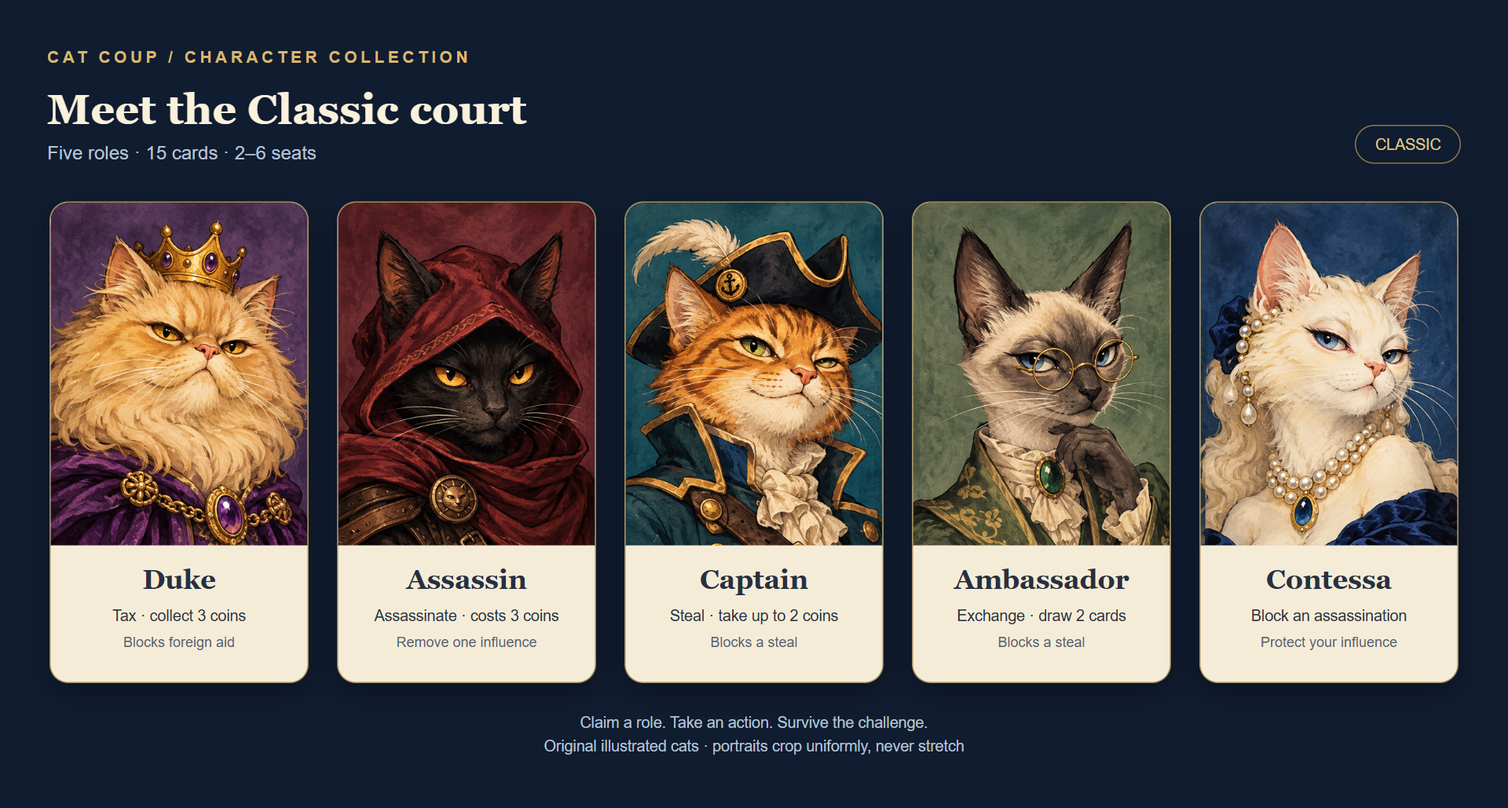
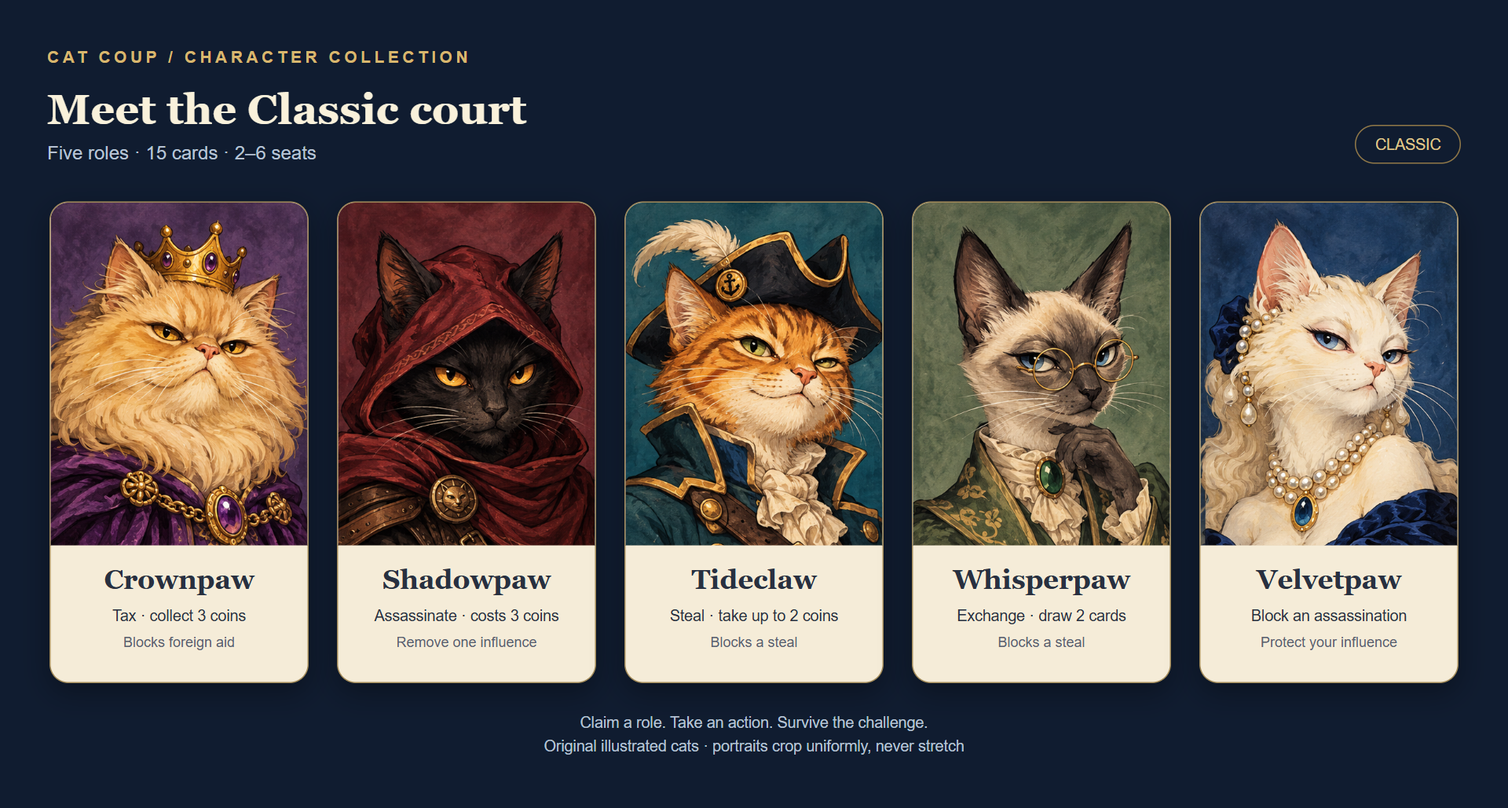
feat: give Classic characters original cat display names

diff --git a/src/main.tsx b/src/main.tsx
@@ -6,7 +6,7 @@ import '@fontsource/geist/400.css';
 import '@fontsource/geist/600.css';
 import '@fontsource/geist/800.css';
 import type { Action, Role, Command, View, Card, Mode } from '../server/game';
-import {descriptions, modeRoles, blockRoles, ACTIONS} from '../server/roles';
+import {descriptions, modeRoles, blockRoles, ACTIONS, ROLE_NAMES} from '../server/roles';
 import {Portrait} from './Portrait';
 import './spacing.css';
 import './style.css';
@@ -20,7 +20,7 @@ import './card-layout.css';
 const roles: Role[] = ['Duke','Assassin','Captain','Ambassador','Contessa'];
 const actions: {id:Action; label:string; detail:string; role?:Role; cost:number; targeted?:boolean}[] = [
   {id:'income',label:'Income',detail:'Take 1 coin',cost:0},
-  {id:'aid',label:'Foreign aid',detail:'Take 2 · Duke can block',cost:0},
+  {id:'aid',label:'Foreign aid',detail:'Take 2 · Crownpaw can block',cost:0},
   {id:'coup',label:'Coup',detail:'Remove 1 influence · cannot block',cost:7,targeted:true},
   {id:'tax',label:'Tax',detail:'Take 3 coins',role:'Duke',cost:0},
   {id:'assassinate',label:'Assassinate',detail:'Remove 1 influence',role:'Assassin',cost:3,targeted:true},
@@ -37,7 +37,7 @@ function saved():Session|null { try { return JSON.parse(sessionStorage.getItem('
 function remember(s:Session|null) { try { if(s) sessionStorage.setItem('cat-coup-session',JSON.stringify(s)); else sessionStorage.removeItem('cat-coup-session'); } catch { /* The active connection still works without storage. */ } }
 function CatMark() { return <svg viewBox="0 0 48 48" aria-hidden="true"><path d="M9 22 8 7l13 9h6L40 7l-1 15c8 21-38 21-30 0Z" fill="none" stroke="currentColor" strokeWidth="2.5" strokeLinejoin="round"/><path d="m18 26 2 1m8 0 2-1m-8 6 2 2 2-2" stroke="currentColor" strokeWidth="2.5" strokeLinecap="round"/></svg>; }
 function Influence({card,hidden=false,select,onSelect}:{card:{role?:Role;id?:string;revealed:boolean};hidden?:boolean;select?:boolean;onSelect?:()=>void}) {
-  const content= <><div className="card-art">{card.role && !hidden ? <Portrait role={card.role}/> : <div className="card-back"><CatMark/><span>CAT COUP</span></div>}</div><div className="card-caption"><strong>{card.role && !hidden ? card.role : 'Secret influence'}</strong><small>{card.revealed?'Revealed · out of play':select?'Selected to keep':card.role && !hidden ? descriptions[card.role]:'Only its owner knows.'}</small></div></>;
+  const content= <><div className="card-art">{card.role && !hidden ? <Portrait role={card.role}/> : <div className="card-back"><CatMark/><span>CAT COUP</span></div>}</div><div className="card-caption"><strong>{card.role && !hidden ? ROLE_NAMES[card.role] : 'Secret influence'}</strong><small>{card.revealed?'Revealed · out of play':select?'Selected to keep':card.role && !hidden ? descriptions[card.role]:'Only its owner knows.'}</small></div></>;
   return onSelect ? <button className={`influence ${card.revealed?'revealed':''} ${select?'selected':''}`} onClick={onSelect} aria-pressed={select}>{content}</button> : <div className={`influence ${card.revealed?'revealed':''}`}>{content}</div>;
 }
 function App() {
@@ -85,25 +85,25 @@ function App() {
     {room && !game && room.host===room.me && <div className="notice"><span>Practice with test bots. Bots are ready automatically and use their own private hand.</span><div><button className="secondary" disabled={disabled||room.draining||room.seats.length>=6} onClick={()=>request('add-bot')}>Add test bot</button>{room.seats.some(s=>s.bot)&&<button className="quiet" disabled={disabled} onClick={()=>request('remove-bot',{id:room.seats.filter(s=>s.bot).at(-1)!.id})}>Remove a bot</button>}</div></div>}
     {room&&room.host===room.me&&<div className="host-room-controls"><button className="quiet" disabled={busy||!connected} onClick={()=>closeRoom.current?.showModal()}>{game&&game.phase!=='over'?'End game & close room':'Close room'}</button></div>}
     {room && <VoiceChat key={room.code+room.me} socket={socket} room={room}/>}
-    {room&&!game&&<section className="mode-panel" aria-label="Game mode"><fieldset disabled={disabled||room.draining||room.host!==room.me}><legend>Choose your court</legend><div className="mode-options">{(['classic','vintage'] as const).map(mode=><label className={`mode-option ${room.mode===mode?'selected':''}`} key={mode}><input type="radio" name="mode" value={mode} checked={room.mode===mode} onChange={()=>request('set-mode',{mode})}/><span><strong>{mode==='classic'?'Classic':'Vintage'} <small>{mode==='classic'?'5 roles · 15 cards':'8 roles · 24 cards'}</small></strong><span>{mode==='classic'?'The original five. Pure bluffing.':'A larger court: Merchant, Bandit and Guardian.'}</span></span></label>)}</div></fieldset><p>{room.host===room.me?'Changing mode resets human players’ ready status.':'The host chooses the mode before dealing.'} Vintage is a Cat Coup house variant.</p>{room.mode==='vintage'&&<div className="vintage-preview">{(['Merchant','Bandit','Guardian'] as const).map(role=><article key={role}><Portrait role={role}/><div><h3>{role}</h3><p>{descriptions[role]}</p></div></article>)}</div>}</section>}
+    {room&&!game&&<section className="mode-panel" aria-label="Game mode"><fieldset disabled={disabled||room.draining||room.host!==room.me}><legend>Choose your court</legend><div className="mode-options">{(['classic','vintage'] as const).map(mode=><label className={`mode-option ${room.mode===mode?'selected':''}`} key={mode}><input type="radio" name="mode" value={mode} checked={room.mode===mode} onChange={()=>request('set-mode',{mode})}/><span><strong>{mode==='classic'?'Classic':'Vintage'} <small>{mode==='classic'?'5 roles · 15 cards':'8 roles · 24 cards'}</small></strong><span>{mode==='classic'?'The original five. Pure bluffing.':'A larger court: Merchant, Bandit and Guardian.'}</span></span></label>)}</div></fieldset><p>{room.host===room.me?'Changing mode resets human players’ ready status.':'The host chooses the mode before dealing.'} Vintage is a Cat Coup house variant.</p>{room.mode==='vintage'&&<div className="vintage-preview">{(['Merchant','Bandit','Guardian'] as const).map(role=><article key={role}><Portrait role={role}/><div><h3>{ROLE_NAMES[role]}</h3><p>{descriptions[role]}</p></div></article>)}</div>}</section>}
     {room?.draining && <div role="status" className="notice">An update is pending. Current games can finish; new games are paused. Lobby rooms will reset when the update begins.</div>}
     {!room ? <main className="welcome">
-      <section className="intro"><h1>Nine lives.<br/><span>Two secrets.</span></h1><p>A court of cunning cats. Bluff, steal, and outwit your friends. Only one gets the crown.</p><div className="hero-fan" aria-label="The five cat characters">{roles.map((role,i)=><div className={`fan-card fan-${i}`} key={role}><Influence card={{role,revealed:false}}/></div>)}</div><ul className="cast-legend" aria-label="Classic role names">{roles.map(role=><li key={role}>{role}</li>)}</ul><p className="table-note">2–6 friends <span>·</span> Private rooms <span>·</span> A very suspicious amount of purring</p></section>
+      <section className="intro"><h1>Nine lives.<br/><span>Two secrets.</span></h1><p>A court of cunning cats. Bluff, steal, and outwit your friends. Only one gets the crown.</p><div className="hero-fan" aria-label="The five cat characters">{roles.map((role,i)=><div className={`fan-card fan-${i}`} key={role}><Influence card={{role,revealed:false}}/></div>)}</div><ul className="cast-legend" aria-label="Classic role names">{roles.map(role=><li key={role}>{ROLE_NAMES[role]}</li>)}</ul><p className="table-note">2–6 friends <span>·</span> Private rooms <span>·</span> A very suspicious amount of purring</p></section>
       <section className="entry"><div className="entry-top"><span className="line-art"><CatMark/></span><h2>Pull up a chair.</h2><p>Bring your friends. Leave your poker face on.</p></div><form onSubmit={(e:FormEvent)=>{e.preventDefault();enter(true);}}><label htmlFor="name">Your nickname</label><input id="name" autoComplete="nickname" maxLength={24} value={name} onChange={e=>setName(e.target.value)} placeholder="e.g. Sir Pounce" required/><button className="primary create" type="button" disabled={!connected||busy||!name.trim()} onClick={()=>enter(false)}>{busy?'Taking your seat…':'Create a room'}<span aria-hidden="true">→</span></button><div className="or"><span/>or join your friends<span/></div><label htmlFor="code">Room code</label><div className="join-row"><input id="code" value={code} onChange={e=>setCode(e.target.value.toUpperCase().replace(/[^A-Z0-9]/g,''))} placeholder="ABC123" maxLength={6} minLength={6} autoComplete="off" required/><button className="secondary" disabled={!connected||busy||code.length!==6||!name.trim()}>Join room</button></div></form><p className="entry-note">No account needed. Your hand stays private.</p></section>
       <section className="rule-teaser"><div><h2>Appearances are deceiving.</h2><p>You may claim any character. But if another cat calls your bluff, you’ll need to prove it.</p></div><button className="quiet" onClick={()=>help.current?.showModal()}>Meet the characters <span aria-hidden="true">↗</span></button></section>
     </main> : !game ? <main className="lobby"><div className="room-heading"><div><h1>Your table is waiting.</h1><p>Share the room code, then have everyone ready up.</p></div><button className="room-code" onClick={share} title="Copy invite link"><small>ROOM CODE</small><strong>{room.code}</strong><span>Copy invite link</span></button></div><div className="seats">{Array.from({length:6},(_,i)=>{const s=room.seats[i];return <article className={`seat ${s?'occupied':''}`} key={i}>{s?<><Portrait role={roles[i%5]}/><h2>{s.name}{s.id===room.me?' (you)':''}</h2><p>{s.id===room.host?'Host · ':''}{!s.connected?'Disconnected':s.ready?'Ready to play':'Getting comfortable'}</p></>:<><div className="empty-seat"><CatMark/></div><h2>Open seat</h2><p>Invite another cat</p></>}</article>;})}</div><div className="lobby-actions"><button className="primary" disabled={disabled} onClick={()=>request('ready')}>{room.seats.find(s=>s.id===room.me)?.ready?'Not ready':'I’m ready'}</button>{room.me===room.host&&<button className="secondary" disabled={disabled||room.seats.length<2||!room.seats.every(s=>s.ready&&s.connected)} onClick={()=>request('start')}>Deal the cards</button>}<button className="quiet" disabled={busy} onClick={()=>request('leave',{},()=>{setRoom(null);remember(null);})}>Leave room</button></div><p className="fine">The host deals when all players are ready. Keep this browser tab to reconnect to your seat.</p></main> : <main className="game">
       <div className="game-top"><span>{game.mode==='vintage'?'Vintage · 8 roles':'Classic · 5 roles'} · Room <button className="inline-code" onClick={share}>{room.code}</button></span><span>{game.deckCount} cards in court · {game.treasury} coins in treasury</span></div>
       <RoundTable game={game} me={room.me} seats={room.seats}/>
-      <section className="decision" aria-labelledby="decision-title"><div className="decision-copy" aria-live="polite"><h1 id="decision-title">{title}</h1>{game.pending&&<p><strong>{displayName(game.pending.actor)}</strong> declared <strong>{actions.find(a=>a.id===game.pending!.action)?.label}</strong>{game.pending.target?` against ${displayName(game.pending.target)}`:''}.{game.pending.blocker&&` ${displayName(game.pending.blocker)} claims ${game.pending.blockRole} to block.`}</p>}{yourTurn&&<p>{(me?.coins||0)>=10?'You have 10 or more coins. You must launch a coup.':'Take an action below. Character actions can be bluffs.'}</p>}{losing&&<p>This card will be public and can no longer protect you.</p>}{!active&&game.phase!=='over'&&<p>You’re out, but you can watch the rest of the game.</p>}</div>
-      {responding&&<div className="responses"><button className="secondary" disabled={disabled} onClick={()=>move({type:'pass'})}>{game.phase==='block'?'Allow action':game.phase==='blockClaim'?'Accept block':'Accept claim'}</button>{['claim','blockClaim'].includes(game.phase)&&<button className="danger" disabled={disabled} onClick={()=>move({type:'challenge'})}>Challenge claim</button>}{game.phase==='block'&&blockRoles(game.pending!.action,game.mode).map(role=><button className="primary" key={role} disabled={disabled} onClick={()=>move({type:'block',role:role as Role})}>Block as {role}</button>)}</div>}
+      <section className="decision" aria-labelledby="decision-title"><div className="decision-copy" aria-live="polite"><h1 id="decision-title">{title}</h1>{game.pending&&<p><strong>{displayName(game.pending.actor)}</strong> declared <strong>{actions.find(a=>a.id===game.pending!.action)?.label}</strong>{game.pending.target?` against ${displayName(game.pending.target)}`:''}.{game.pending.blocker&&` ${displayName(game.pending.blocker)} claims ${game.pending.blockRole ? ROLE_NAMES[game.pending.blockRole] : 'a role'} to block.`}</p>}{yourTurn&&<p>{(me?.coins||0)>=10?'You have 10 or more coins. You must launch a coup.':'Take an action below. Character actions can be bluffs.'}</p>}{losing&&<p>This card will be public and can no longer protect you.</p>}{!active&&game.phase!=='over'&&<p>You’re out, but you can watch the rest of the game.</p>}</div>
+      {responding&&<div className="responses"><button className="secondary" disabled={disabled} onClick={()=>move({type:'pass'})}>{game.phase==='block'?'Allow action':game.phase==='blockClaim'?'Accept block':'Accept claim'}</button>{['claim','blockClaim'].includes(game.phase)&&<button className="danger" disabled={disabled} onClick={()=>move({type:'challenge'})}>Challenge claim</button>}{game.phase==='block'&&blockRoles(game.pending!.action,game.mode).map(role=><button className="primary" key={role} disabled={disabled} onClick={()=>move({type:'block',role:role as Role})}>Block as {ROLE_NAMES[role]}</button>)}</div>}
       {game.phase==='over'&&<div className="responses">{room.host===room.me?<button className="primary" disabled={disabled} onClick={()=>request('rematch')}>Play again</button>:<p>Waiting for the host to open a rematch.</p>}<button className="quiet" onClick={()=>request('leave',{},()=>{setRoom(null);remember(null);})}>Leave table</button></div>}</section>
       <div className="play-area"><section className="your-hand"><div className="section-heading"><h2>Your influence</h2><span className="coins">{me?.coins} <small>coins</small></span><button className="quiet" onClick={()=>setHide(!hide)}>{hide?'Show cards':'Hide cards'}</button></div><div className="hand-cards">{(exchange?[...me!.cards.filter(c=>!c.revealed),...game.exchange!]:me!.cards).map((c,i)=><Influence key={'id' in c?String(c.id):i} card={c} hidden={hide&&!c.revealed} select={exchange&&chosen.includes((c as Card).id)} onSelect={disabled?undefined:losing&&!c.revealed?()=>move({type:'lose',card:(c as Card).id}):exchange?()=>setChosen(prev=>prev.includes((c as Card).id)?prev.filter(id=>id!==(c as Card).id):prev.length<keep?[...prev,(c as Card).id]:prev):undefined}/>)}</div>{exchange&&<button className="primary" disabled={disabled||chosen.length!==keep} onClick={()=>move({type:'exchange',cards:chosen})}>Keep {chosen.length} of {keep} selected cards</button>}</section>
-      <section className="action-tray"><h2>{yourTurn?'Choose your action':'Actions at a glance'}</h2>{yourTurn&&<label className="target-label">Target for coup, assassination or theft<select value={target} onChange={e=>setTarget(e.target.value)}><option value="">Choose an opponent</option>{game.players.filter(p=>p.id!==room.me&&p.cards.some(c=>!c.revealed)).map(p=><option value={p.id} key={p.id}>{p.name} · {p.coins} coins</option>)}</select></label>}<div className="actions">{actions.filter(a=>!ACTIONS[a.id].vintage||game.mode==='vintage').map(a=><button key={a.id} className={`action ${a.role?'role-action':''}`} disabled={disabled||!yourTurn||(me?.coins||0)<a.cost||((me?.coins||0)>=10&&a.id!=='coup')||!!(a.targeted&&!target)} onClick={()=>move({type:'action',action:a.id,target:a.targeted?target:undefined})}><span><strong>{a.label}</strong><small>{a.detail}</small></span><span className="action-meta">{a.role&&<small>{a.role}</small>}<b>{a.cost?`${a.cost} coins`:'Free'}</b></span></button>)}</div></section></div>
+      <section className="action-tray"><h2>{yourTurn?'Choose your action':'Actions at a glance'}</h2>{yourTurn&&<label className="target-label">Target for coup, assassination or theft<select value={target} onChange={e=>setTarget(e.target.value)}><option value="">Choose an opponent</option>{game.players.filter(p=>p.id!==room.me&&p.cards.some(c=>!c.revealed)).map(p=><option value={p.id} key={p.id}>{p.name} · {p.coins} coins</option>)}</select></label>}<div className="actions">{actions.filter(a=>!ACTIONS[a.id].vintage||game.mode==='vintage').map(a=><button key={a.id} className={`action ${a.role?'role-action':''}`} disabled={disabled||!yourTurn||(me?.coins||0)<a.cost||((me?.coins||0)>=10&&a.id!=='coup')||!!(a.targeted&&!target)} onClick={()=>move({type:'action',action:a.id,target:a.targeted?target:undefined})}><span><strong>{a.label}</strong><small>{a.detail}</small></span><span className="action-meta">{a.role&&<small>{ROLE_NAMES[a.role]}</small>}<b>{a.cost?`${a.cost} coins`:'Free'}</b></span></button>)}</div></section></div>
       <details className="history" open><summary>Table history</summary><ol>{[...game.log].reverse().map((entry,i)=><li key={`${game.log.length-i}-${entry}`}>{entry}</li>)}</ol></details>
     </main>}
     <dialog ref={closeRoom} className="rules close-room-dialog" aria-labelledby="close-room-title"><h2 id="close-room-title">Close this room for everyone?</h2><p>This ends any active game and returns every player to the home screen. Game progress is discarded and the room code will no longer work.</p><div className="responses"><button className="quiet" autoFocus onClick={()=>closeRoom.current?.close()}>Cancel</button><button className="danger" disabled={busy||!connected} onClick={()=>request('close-room',{confirm:true})}>End game and close room</button></div></dialog>
     <footer><span>CAT COUP · A little charm. A lot of bluff.</span><a href="https://www.qugs.org/rules/r131357.pdf" target="_blank" rel="noreferrer">Based on Coup by Rikki Tahta · Rules ↗</a></footer>
-    <dialog ref={help} className="rules" aria-labelledby="rules-title"><div className="section-heading"><h2 id="rules-title">Welcome to the cat court.</h2><button className="quiet" onClick={()=>help.current?.close()}>Close</button></div><p>Keep at least one hidden influence. If both are revealed, you’re out. The last cat with influence wins.</p><p><strong>{room?.mode==='vintage'?'Vintage: 8 roles, 24 cards. Cat Coup house variant.':'Classic: 5 roles, 15 cards.'}</strong> Three copies of each role; two influences per player. The host selects the mode in the lobby.</p><div className="role-guide">{modeRoles(room?.mode||'classic').map(role=><article key={role}><Portrait role={role}/><div><h3>{role}</h3><p>{descriptions[role]}</p></div></article>)}</div><h3>Vintage house rules</h3><p>Vintage keeps the Classic rules and adds Merchant (Market: take 2), Bandit (Plunder: pay 1, steal up to 3) and Guardian (block Steal or Plunder). Only the target may block theft. Plunder can only be blocked by Guardian. Role claims and blocks can be challenged, and a caught action bluff refunds its fee. More roles change the odds; this house variant has not been competitively balanced.</p><h3>A claim is not a confession.</h3><p>You can claim a character you don’t hold. Other players can accept or challenge. If proved, the challenger loses influence and the proven card is replaced. If caught bluffing, the claimant loses influence.</p><h3>Coins, coups and counterclaims</h3><p>Income is safe. Foreign aid can be blocked by Duke. A coup costs 7 and cannot be blocked; at 10 coins it is mandatory. Blocks can be bluffs too. Assassination costs 3 even when blocked; a caught action bluff refunds its fee.</p><p className="fine">Rooms live in server memory. A disconnected active player pauses the table until they return. Use the same tab to restore a seat; a server restart ends rooms. This is an independent fan project with original cat artwork.</p><a href="https://www.qugs.org/rules/r131357.pdf" target="_blank" rel="noreferrer">Read the full original rules ↗</a></dialog>
+    <dialog ref={help} className="rules" aria-labelledby="rules-title"><div className="section-heading"><h2 id="rules-title">Welcome to the cat court.</h2><button className="quiet" onClick={()=>help.current?.close()}>Close</button></div><p>Keep at least one hidden influence. If both are revealed, you’re out. The last cat with influence wins.</p><p><strong>{room?.mode==='vintage'?'Vintage: 8 roles, 24 cards. Cat Coup house variant.':'Classic: 5 roles, 15 cards.'}</strong> Three copies of each role; two influences per player. The host selects the mode in the lobby.</p><div className="role-guide">{modeRoles(room?.mode||'classic').map(role=><article key={role}><Portrait role={role}/><div><h3>{ROLE_NAMES[role]}</h3><p>{descriptions[role]}</p></div></article>)}</div><h3>Vintage house rules</h3><p>Vintage keeps the Classic rules and adds Merchant (Market: take 2), Bandit (Plunder: pay 1, steal up to 3) and Guardian (block Steal or Plunder). Only the target may block theft. Plunder can only be blocked by Guardian. Role claims and blocks can be challenged, and a caught action bluff refunds its fee. More roles change the odds; this house variant has not been competitively balanced.</p><h3>A claim is not a confession.</h3><p>You can claim a character you don’t hold. Other players can accept or challenge. If proved, the challenger loses influence and the proven card is replaced. If caught bluffing, the claimant loses influence.</p><h3>Coins, coups and counterclaims</h3><p>Income is safe. Foreign aid can be blocked by Crownpaw. A coup costs 7 and cannot be blocked; at 10 coins it is mandatory. Blocks can be bluffs too. Assassination costs 3 even when blocked; a caught action bluff refunds its fee.</p><p className="fine">Rooms live in server memory. A disconnected active player pauses the table until they return. Use the same tab to restore a seat; a server restart ends rooms. This is an independent fan project with original cat artwork.</p><a href="https://www.qugs.org/rules/r131357.pdf" target="_blank" rel="noreferrer">Read the full original rules ↗</a></dialog>
   </div>;
 }
 createRoot(document.getElementById('root')!).render(<App/>);

diff --git a/server/game.ts b/server/game.ts
@@ -1,6 +1,6 @@
 import { randomInt, randomUUID } from 'node:crypto';
 
-import {ACTIONS, modeRoles, blockRoles, type Role, type Mode, type Action} from './roles.js';
+import {ACTIONS, ROLE_NAMES, modeRoles, blockRoles, type Role, type Mode, type Action} from './roles.js';
 export {ROLES, ACTIONS, blockRoles} from './roles.js';
 export type {Role, Action, Mode} from './roles.js';
 export interface Card { id: string; role: Role; revealed: boolean }
@@ -88,7 +88,7 @@ export function command(previous: Game, id: string, cmd: Command): Game {
     if (action.targeted && (!cmd.target || cmd.target === id || !living(player(g, cmd.target)))) throw Error('Choose an active opponent.');
     me.coins -= action.cost; g.treasury += action.cost;
     g.pending = { actor: id, action: cmd.action, target: action.targeted ? cmd.target : undefined }; g.passed = [];
-    note(g, `${me.name} declares ${cmd.action}${action.role ? ` (${action.role})` : ''}${action.targeted ? ` against ${player(g, cmd.target!).name}` : ''}.`);
+    note(g, `${me.name} declares ${cmd.action}${action.role ? ` (${ROLE_NAMES[action.role]})` : ''}${action.targeted ? ` against ${player(g, cmd.target!).name}` : ''}.`);
     if (action.role) g.phase = 'claim'; else if (cmd.action === 'aid') blockStage(g); else resolve(g);
   } else if (cmd.type === 'pass') {
     if (!responders(g).includes(id)) throw Error('No response is needed from you.');
@@ -102,7 +102,7 @@ export function command(previous: Game, id: string, cmd: Command): Game {
     const p = g.pending;
     if (g.phase !== 'block' || !p || !responders(g).includes(id) || !blockRoles(p.action,g.mode).includes(cmd.role)) throw Error('That block is unavailable.');
     p.blocker = id; p.blockRole = cmd.role; g.phase = 'blockClaim'; g.passed = [];
-    note(g, `${me.name} blocks with a claimed ${cmd.role}.`);
+    note(g, `${me.name} blocks with a claimed ${ROLE_NAMES[cmd.role]}.`);
   } else if (cmd.type === 'challenge') {
     if (!['claim', 'blockClaim'].includes(g.phase) || !responders(g).includes(id)) throw Error('That claim cannot be challenged now.');
     const p = g.pending!, isBlock = g.phase === 'blockClaim';
@@ -110,11 +110,11 @@ export function command(previous: Game, id: string, cmd: Command): Game {
     const role = isBlock ? p.blockRole! : ACTIONS[p.action].role!;
     const card = claimant.cards.find(c => !c.revealed && c.role === role);
     if (card) {
-      note(g, `${me.name} challenges. ${claimant.name} proves ${role} and draws a replacement. ${me.name} loses influence.`);
+      note(g, `${me.name} challenges. ${claimant.name} proves ${ROLE_NAMES[role]} and draws a replacement. ${me.name} loses influence.`);
       const index = claimant.cards.indexOf(card); g.deck.push(card); shuffle(g.deck); claimant.cards[index] = g.deck.pop()!;
       lose(g, me.id, isBlock ? 'finish' : 'block');
     } else {
-      note(g, `${me.name} catches ${claimant.name} bluffing ${role}.`);
+      note(g, `${me.name} catches ${claimant.name} bluffing ${ROLE_NAMES[role]}.`);
       if (!isBlock) { const cost = ACTIONS[p.action].cost; claimant.coins += cost; g.treasury -= cost; }
       lose(g, claimant.id, isBlock ? 'resolve' : 'finish');
     }
@@ -122,7 +122,7 @@ export function command(previous: Game, id: string, cmd: Command): Game {
     if (g.phase !== 'loss' || g.loss?.player !== id) throw Error('You do not need to reveal a card.');
     const card = me.cards.find(c => c.id === cmd.card && !c.revealed);
     if (!card) throw Error('Choose one of your hidden cards.');
-    card.revealed = true; note(g, `${me.name} reveals ${card.role}.`);
+    card.revealed = true; note(g, `${me.name} reveals ${ROLE_NAMES[card.role]}.`);
     if (!living(me)) { g.treasury += me.coins; me.coins = 0; note(g, `${me.name} is out of the court.`); }
     proceed(g, g.loss.next);
   } else if (cmd.type === 'exchange') {

diff --git a/src/RoundTable.tsx b/src/RoundTable.tsx
@@ -1,5 +1,5 @@
 import {Portrait} from './Portrait';
-import {ROLES} from '../server/roles';
+import {ROLES, ROLE_NAMES} from '../server/roles';
 import type {CSSProperties} from 'react';
 import type {View} from '../server/game';
 export function RoundTable({game,me,seats}:{game:View;me:string;seats:{id:string;connected:boolean;bot?:boolean;voice?:boolean}[]}) {
@@ -8,6 +8,6 @@ export function RoundTable({game,me,seats}:{game:View;me:string;seats:{id:string
   return <section className="round-table" aria-label="Circular game table"><div className="table-felt" aria-hidden="true"/><div className="table-center"><span className="table-wordmark">CAT<br/>COUP</span><span className="table-deck" aria-label={`${game.deckCount} cards in court`}>♠</span><small>{game.deckCount} in court · {game.treasury} coins</small><strong>{game.phase==='over'?'Court decided':`${game.players.find(p=>p.id===game.turn)?.name}'s turn`}</strong></div>{players.map((p,i)=>{
     const angle=(90+i*360/players.length)*Math.PI/180;
     const seat=seats.find(s=>s.id===p.id),alive=p.cards.some(c=>!c.revealed);
-    return <article key={p.id} className={`table-seat ${p.id===me?'self':''} ${game.turn===p.id?'turn':''} ${!alive?'eliminated':''}`} style={{'--seat-x':`${50+37*Math.cos(angle)}%`,'--seat-y':`${50+30*Math.sin(angle)}%`} as CSSProperties} aria-label={`${p.name}${p.id===me?' (you)':''}, ${p.coins} coins${game.turn===p.id?', current turn':''}`}><Portrait role={ROLES[i%ROLES.length]} className="seat-avatar" decorative/><strong>{p.name}{p.id===me?' (you)':''}</strong><small>{!alive?'Eliminated':!seat?.connected?'Reconnecting':seat.bot?'Test bot':seat.voice?'Voice joined':'At the table'} <b>· {p.coins} coins</b></small><div className="table-influence">{p.cards.map((c,j)=><span className={c.revealed?'lost':''} key={j}>{c.revealed&&'role'in c?c.role:'♠'}</span>)}</div></article>;
+    return <article key={p.id} className={`table-seat ${p.id===me?'self':''} ${game.turn===p.id?'turn':''} ${!alive?'eliminated':''}`} style={{'--seat-x':`${50+37*Math.cos(angle)}%`,'--seat-y':`${50+30*Math.sin(angle)}%`} as CSSProperties} aria-label={`${p.name}${p.id===me?' (you)':''}, ${p.coins} coins${game.turn===p.id?', current turn':''}`}><Portrait role={ROLES[i%ROLES.length]} className="seat-avatar" decorative/><strong>{p.name}{p.id===me?' (you)':''}</strong><small>{!alive?'Eliminated':!seat?.connected?'Reconnecting':seat.bot?'Test bot':seat.voice?'Voice joined':'At the table'} <b>· {p.coins} coins</b></small><div className="table-influence">{p.cards.map((c,j)=><span className={c.revealed?'lost':''} key={j}>{c.revealed&&'role'in c?ROLE_NAMES[c.role]:'♠'}</span>)}</div></article>;
   })}</section>;
 }

diff --git a/src/Portrait.tsx b/src/Portrait.tsx
@@ -1,4 +1,4 @@
-import type {Role} from '../server/roles';
+import {ROLE_NAMES, type Role} from '../server/roles';
 const classic=['Duke','Assassin','Captain','Ambassador','Contessa'];
 const vintage=['Merchant','Bandit','Guardian'];
 /** A viewBox isolates one sprite panel; slice uses one uniform scale, never stretches the cat. */
@@ -6,5 +6,5 @@ export function Portrait({role,className='',decorative=false}:{role:Role;classNa
  const index=classic.indexOf(role),isClassic=index>=0;
  const panelWidth=isClassic?434.4:320,height=isClassic?724:640;
  const offset=(isClassic?index:vintage.indexOf(role))*panelWidth;
- return <svg role={decorative?undefined:"img"} aria-hidden={decorative||undefined} aria-label={decorative?undefined:`${role} cat portrait`} className={`portrait ${isClassic?"classic-portrait":"vintage-portrait"} ${className}`} viewBox={`${offset} 0 ${panelWidth} ${height}`} preserveAspectRatio="xMidYMin slice"><image aria-hidden="true" href={isClassic?'/assets/cat-court-lossless.webp':'/assets/vintage-court.webp'} width={isClassic?2172:960} height={height}/></svg>;
+ return <svg role={decorative?undefined:"img"} aria-hidden={decorative||undefined} aria-label={decorative?undefined:`${ROLE_NAMES[role]} cat portrait`} className={`portrait ${isClassic?"classic-portrait":"vintage-portrait"} ${className}`} viewBox={`${offset} 0 ${panelWidth} ${height}`} preserveAspectRatio="xMidYMin slice"><image aria-hidden="true" href={isClassic?'/assets/cat-court-lossless.webp':'/assets/vintage-court.webp'} width={isClassic?2172:960} height={height}/></svg>;
 }

diff --git a/tests/game.test.ts b/tests/game.test.ts
@@ -1,6 +1,7 @@
 import test from 'node:test';
 import assert from 'node:assert/strict';
 import { createGame, command, snapshot, responders, type Game, type Role } from '../server/game.js';
+import {ROLE_NAMES} from '../server/roles.js';
 
 const seats = [{ id: 'a', name: 'Miso' }, { id: 'b', name: 'Mochi' }, { id: 'c', name: 'Bean' }];
 function fixed(roles: Role[][]): Game {
@@ -44,9 +45,16 @@ test('income, aid and tax resolve with exact amounts', () => {
 test('truthful challenge replaces proof card and challenger chooses loss', () => {
   let g=fixed([['Duke','Captain'],['Assassin','Contessa'],['Ambassador','Duke']]);
   g=command(g,'a',{type:'action',action:'tax'}); g=command(g,'b',{type:'challenge'});
+  assert.ok(g.log.some(line=>line.includes('proves Crownpaw')));
   assert.equal(g.loss?.player,'b'); assert.equal(g.players[0].cards.filter(c=>!c.revealed).length,2);
   g=command(g,'b',{type:'lose',card:g.players[1].cards[1].id});
+  assert.ok(g.log.some(line=>line.includes('reveals Velvetpaw')));
   assert.equal(g.players[1].cards[1].revealed,true); assert.equal(g.players[0].coins,5); invariant(g);
+});
+
+test('cat role names are complete and unique while rule identifiers stay compatible', () => {
+  assert.deepEqual(Object.values(ROLE_NAMES), ['Crownpaw','Shadowpaw','Tideclaw','Whisperpaw','Velvetpaw','Merchant','Bandit','Guardian']);
+  assert.equal(new Set(Object.values(ROLE_NAMES)).size, 8);
 });
 test('caught assassination bluff refunds fee', () => {
   let g=fixed([['Duke','Captain'],['Assassin','Contessa'],['Ambassador','Duke']]);

diff --git a/server/roles.ts b/server/roles.ts
@@ -1,6 +1,11 @@
 export const ROLES = ['Duke', 'Assassin', 'Captain', 'Ambassador', 'Contessa'] as const;
 export const VINTAGE_ROLES = [...ROLES, 'Merchant', 'Bandit', 'Guardian'] as const;
 export type Role = typeof VINTAGE_ROLES[number];
+// Stable rule identifiers keep existing room commands compatible; names are presentation only.
+export const ROLE_NAMES: Record<Role,string> = {
+  Duke:'Crownpaw', Assassin:'Shadowpaw', Captain:'Tideclaw', Ambassador:'Whisperpaw', Contessa:'Velvetpaw',
+  Merchant:'Merchant', Bandit:'Bandit', Guardian:'Guardian',
+};
 export type Mode = 'classic' | 'vintage';
 export const modeRoles = (mode:Mode): readonly Role[] => mode === 'vintage' ? VINTAGE_ROLES : ROLES;
 export type Action = 'income' | 'aid' | 'tax' | 'steal' | 'assassinate' | 'exchange' | 'coup' | 'market' | 'plunder';

diff --git a/README.md b/README.md
@@ -10,15 +10,17 @@ An online, cat-themed fan adaptation of **Coup** for **2–6 seats**, with priva
 
 ### Classic — the original five
 
-![Classic character card set: Duke, Assassin, Captain, Ambassador and Contessa](docs/images/classic-card-set.png)
+![Classic character card set: Crownpaw, Shadowpaw, Tideclaw, Whisperpaw and Velvetpaw](docs/images/classic-card-set.png)
 
 | Role | Action | Block |
 | --- | --- | --- |
-| **Duke** | **Tax:** collect up to 3 coins from the treasury. | Foreign aid. |
-| **Assassin** | **Assassinate:** pay 3 coins to make a target lose one influence. | — |
-| **Captain** | **Steal:** take up to 2 available coins from one opponent. | Steal against yourself. |
-| **Ambassador** | **Exchange:** draw 2 cards, choose your hidden hand and return the rest. | Steal against yourself. |
-| **Contessa** | — | Assassination against yourself. |
+| **Crownpaw** | **Tax:** collect up to 3 coins from the treasury. | Foreign aid. |
+| **Shadowpaw** | **Assassinate:** pay 3 coins to make a target lose one influence. | — |
+| **Tideclaw** | **Steal:** take up to 2 available coins from one opponent. | Steal against yourself. |
+| **Whisperpaw** | **Exchange:** draw 2 cards, choose your hidden hand and return the rest. | Steal against yourself. |
+| **Velvetpaw** | — | Assassination against yourself. |
+
+These are Cat Coup’s own character display names; the five-role rules are unchanged. Renaming characters is not a legal clearance or a change to the credits below.
 
 Classic uses **15 cards: three of each role**. Role claims and blocks can be challenged. Income, foreign aid and coup are also available; coup costs 7 coins and becomes mandatory when you hold 10 or more coins.
 
@@ -30,7 +32,7 @@ Classic uses **15 cards: three of each role**. Role claims and blocks can be cha
 | --- | --- |
 | **Merchant** | **Market:** collect up to 2 coins from the treasury. The claim can be challenged; the action cannot be blocked. |
 | **Bandit** | **Plunder:** pay 1 coin to the treasury, then steal up to 3 available coins from one opponent. Only the target can block, by claiming Guardian. A successful block still spends the fee; a caught Bandit bluff refunds it. |
-| **Guardian** | Block Captain’s Steal or Bandit’s Plunder against yourself. The block can be challenged. No special action; does not block assassination. |
+| **Guardian** | Block Tideclaw’s Steal or Bandit’s Plunder against yourself. The block can be challenged. No special action; does not block assassination. |
 
 Vintage uses **24 cards: three of each of the eight roles**. Both modes start with two influences per player and share a 50-coin treasury. In a two-player game, the starting player begins with 1 coin and the other with 2; otherwise everyone begins with 2 coins.
 
@@ -109,7 +111,7 @@ The public deployment uses a Windows Node process behind Cloudflare Tunnel. Dock
 
 ## Verification and limits
 
-The current rule/socket suite contains **24 tests**, covering complete games, card/coin conservation, private views, mode-specific actions, readiness, reconnects and host-only room closure. Browser scripts cover responsive layouts, private hands, mode selection, synthetic two-peer voice and closing a room with microphone cleanup.
+The current rule/socket suite contains **25 tests**, covering complete games, card/coin conservation, private views, mode-specific actions, readiness, reconnects and host-only room closure. Browser scripts cover responsive layouts, private hands, mode selection, synthetic two-peer voice and closing a room with microphone cleanup.
 
 Browser checks require a separately installed Playwright package and Edge. Set `PLAYWRIGHT_MODULE` to that package path and `BROWSER_CHANNEL=msedge` when needed. Each script specifies its isolated test-server port; review it before running. Voice tests use synthetic microphones, never a real device. Local synthetic WebRTC checks do not establish compatibility with every Internet connection.
 

diff --git a/public/assets/PROVENANCE.md b/public/assets/PROVENANCE.md
@@ -26,3 +26,7 @@ Original output: `exec-08141129-4934-4636-9ded-d495f73a8066.png`; preserved in `
[1 lines of base64/hex data omitted]
 
 Prompt summary: one three-panel sprite, reference style only; matching scale, full ears/headwear, bust portraits, cunning expressions, gouache and fine ink, distinct muted backgrounds; no type, frames, watermark, original-five redraw or flat-vector style. The exact generation prompt is preserved in docs/artwork/vintage-court-source.prompt.txt. The optional scripts/prepare-vintage-artwork.mjs reproduces delivery encoding and refuses to overwrite an existing derivative.
+
+## Character display names
+
+The Classic portraits are now displayed as Crownpaw, Shadowpaw, Tideclaw, Whisperpaw and Velvetpaw, in the same left-to-right order. The source prompt above is preserved as historical provenance; original image bytes are unchanged. Vintage shares these five names and adds Merchant, Bandit and Guardian.
